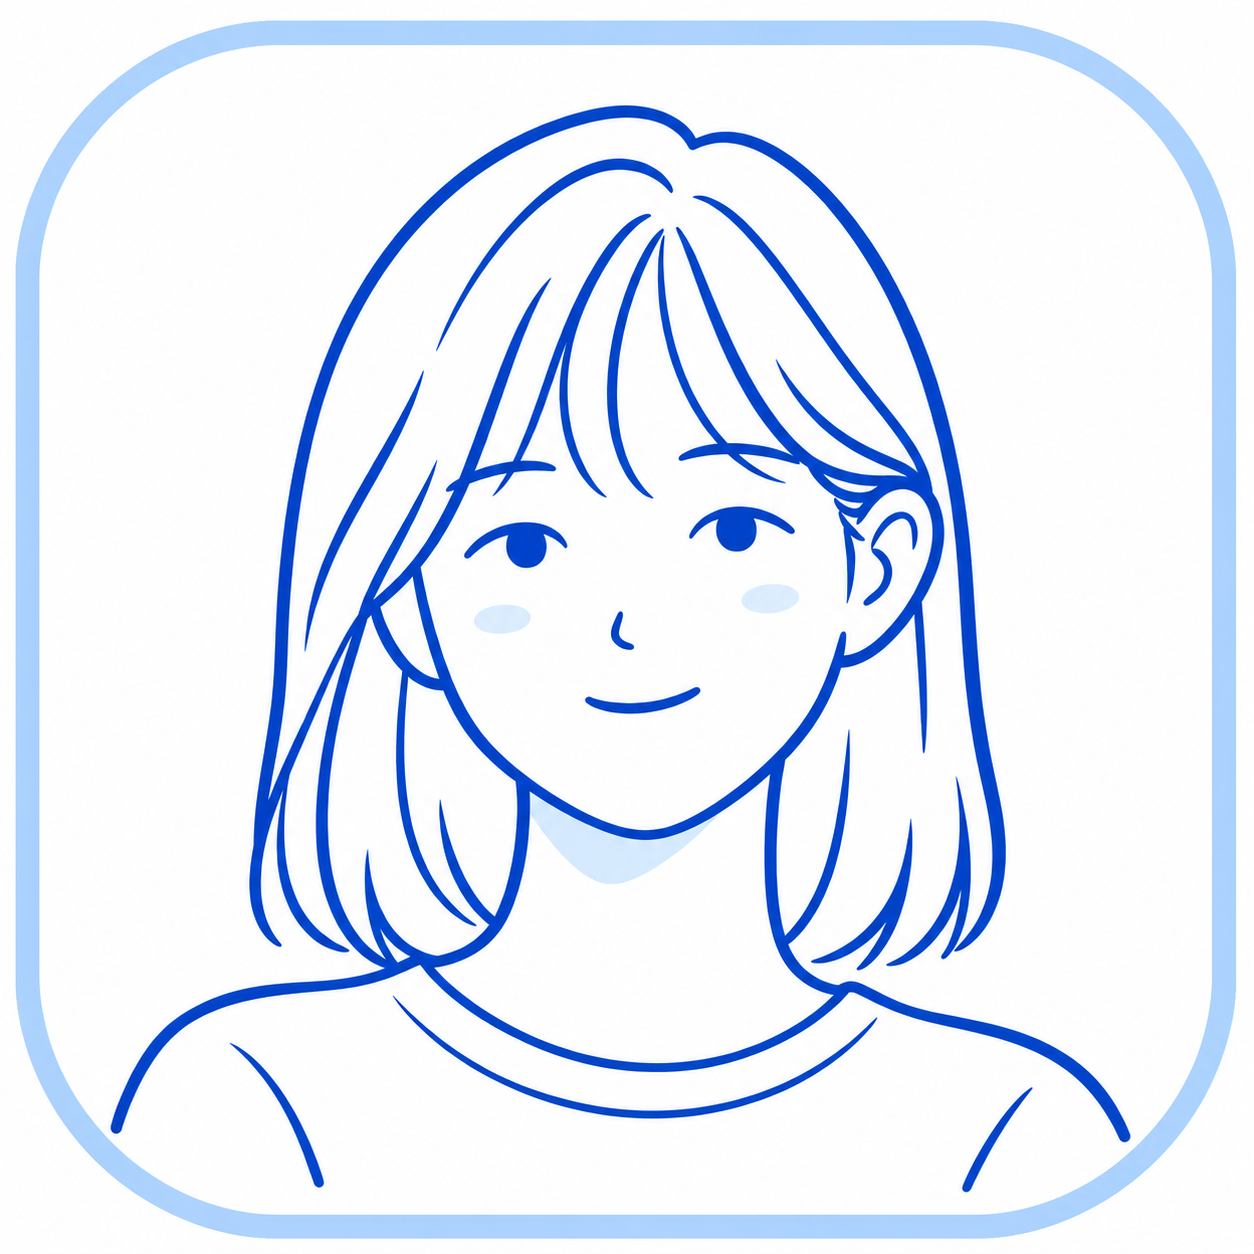
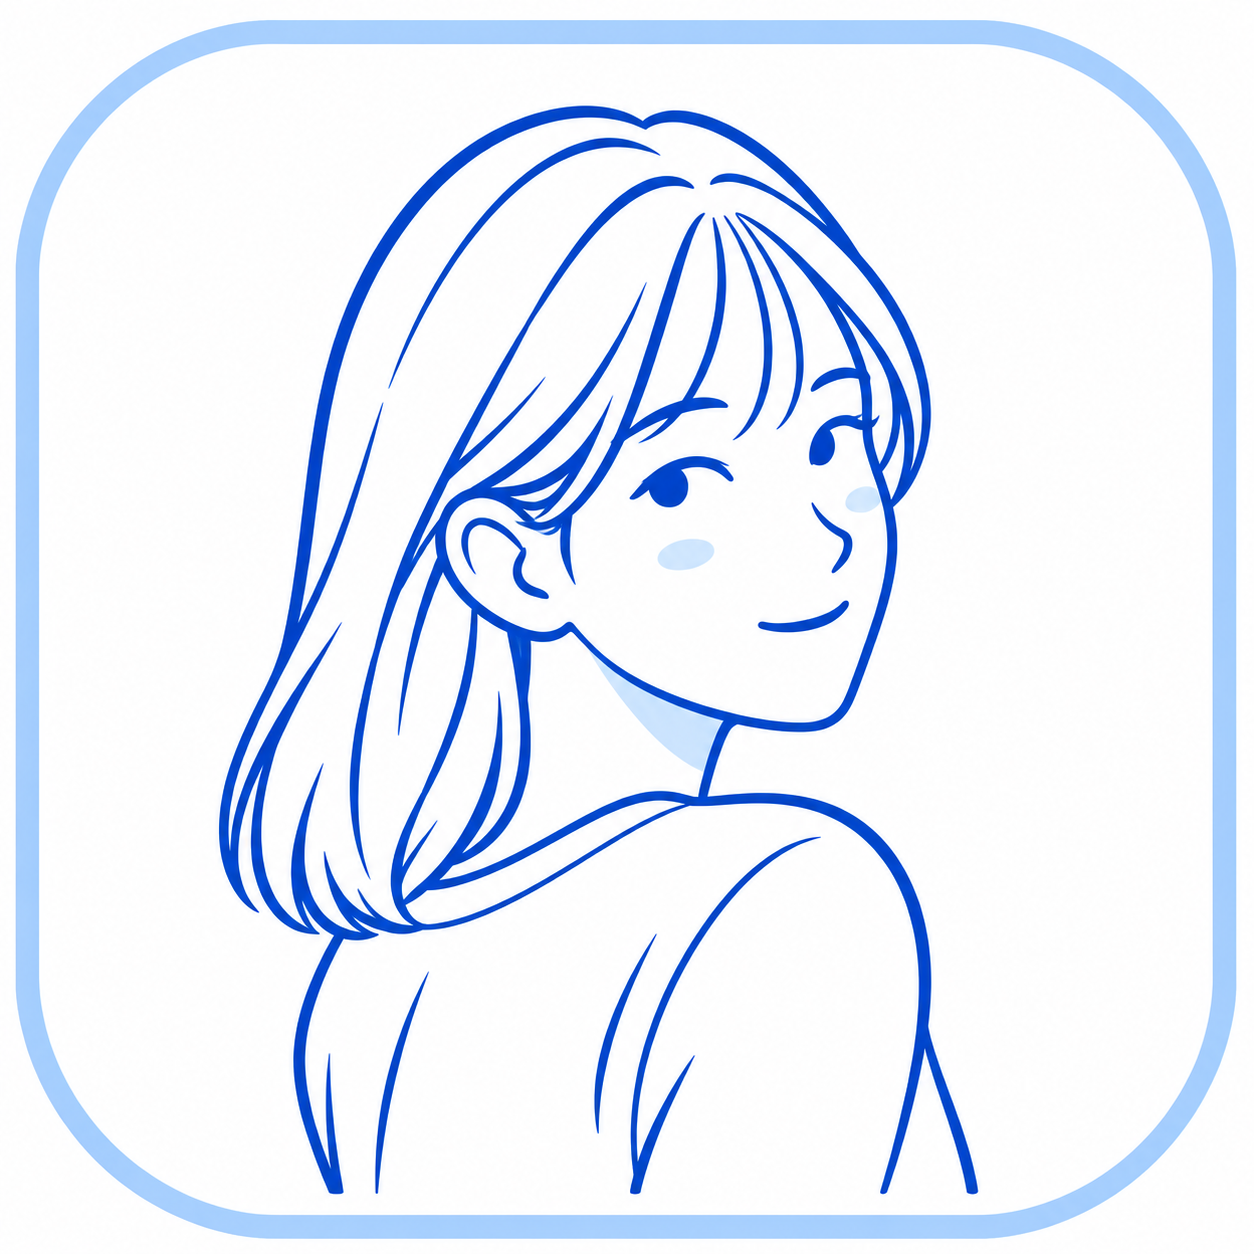
Turn portrait into an over-the-shoulder pose

diff --git a/README.md b/README.md
@@ -107,7 +107,7 @@ outside the completed local validation.
 
 Mory is [MIT licensed](LICENSE). Copyright and dependency notices appear in [THIRD_PARTY.md](THIRD_PARTY.md) and ship inside the application bundle.
 
-The app icon is an original generated blue-and-white line illustration of a graceful young adult woman, with straight shoulder-length hair, delicate cobalt contours, a white blouse and a pale blue rounded border on an opaque white background. Its source is `resources/icon.png`, included under the project's MIT license.
+The app icon is an original generated blue-and-white line illustration of a graceful young adult woman looking back over her shoulder, with straight shoulder-length hair, delicate cobalt contours, a white blouse and a pale blue rounded border on an opaque white background. Its source is `resources/icon.png`, included under the project's MIT license.
 
 <details><summary>Icon generation prompt</summary>
 
@@ -116,6 +116,10 @@ Use case: logo-brand. Asset type: finished Mory macOS app icon, a single square 
 Final background refinement:
 
 Use case: precise-object-edit. Edit the provided blue and white line-art app icon. Preserve the young adult woman's face, hair, smile, proportions, blue contour strokes, blouse and overall layout exactly. Repair ONLY the background: remove every gray blotch, translucent hole, rough edge, shadow and stray mark. Make the entire square canvas solid opaque pure white, including all four corners. Keep the pale-blue rounded-square outline clean and continuous. The areas inside and outside the outline must be completely uniform flat white with no transparency, texture, shadows or gradients. Retain the tiny pale-blue cheek and neck accents. Deliver a clean finished square blue-and-white line-art icon. No text, no watermark.
+
+Final pose refinement:
+
+Use case: identity-preserve. Asset type: Mory macOS app icon. Edit the supplied blue-and-white line illustration. Change the young adult woman's pose to a graceful SIDEWAYS, LOOKING BACK OVER HER SHOULDER pose. Her torso and shoulders turn away toward the right, showing a three-quarter back view of her blouse and one shoulder in the foreground. She naturally turns her head back toward the viewer over that shoulder; show her face in a clear three-quarter side view, with a delicate visible nose silhouette, a gentle small smile and eyes glancing back at the viewer. Make the sideways torso and backward glance unmistakable, anatomically natural and relaxed. Preserve her youthful adult appearance around age 22, quiet elegance, straight shoulder-length hair with light parted bangs, simple white blouse, minimalist cobalt-blue contour strokes, pale-blue accents and generous white negative space. Hair follows the turn and falls naturally along her back, outlined in a few clean flowing lines with white interiors. Center the complete head-and-shoulders portrait with a safe margin inside the existing pale-blue rounded-square border. Preserve the square opaque white canvas and clean flat background. Strict blue-and-white palette. No heavy shading, gradients, texture, solid dark hair, makeup, jewelry, props, text, watermark or extra characters. Keep the illustration crisp and readable as a small app icon.
 
 </details>
 
